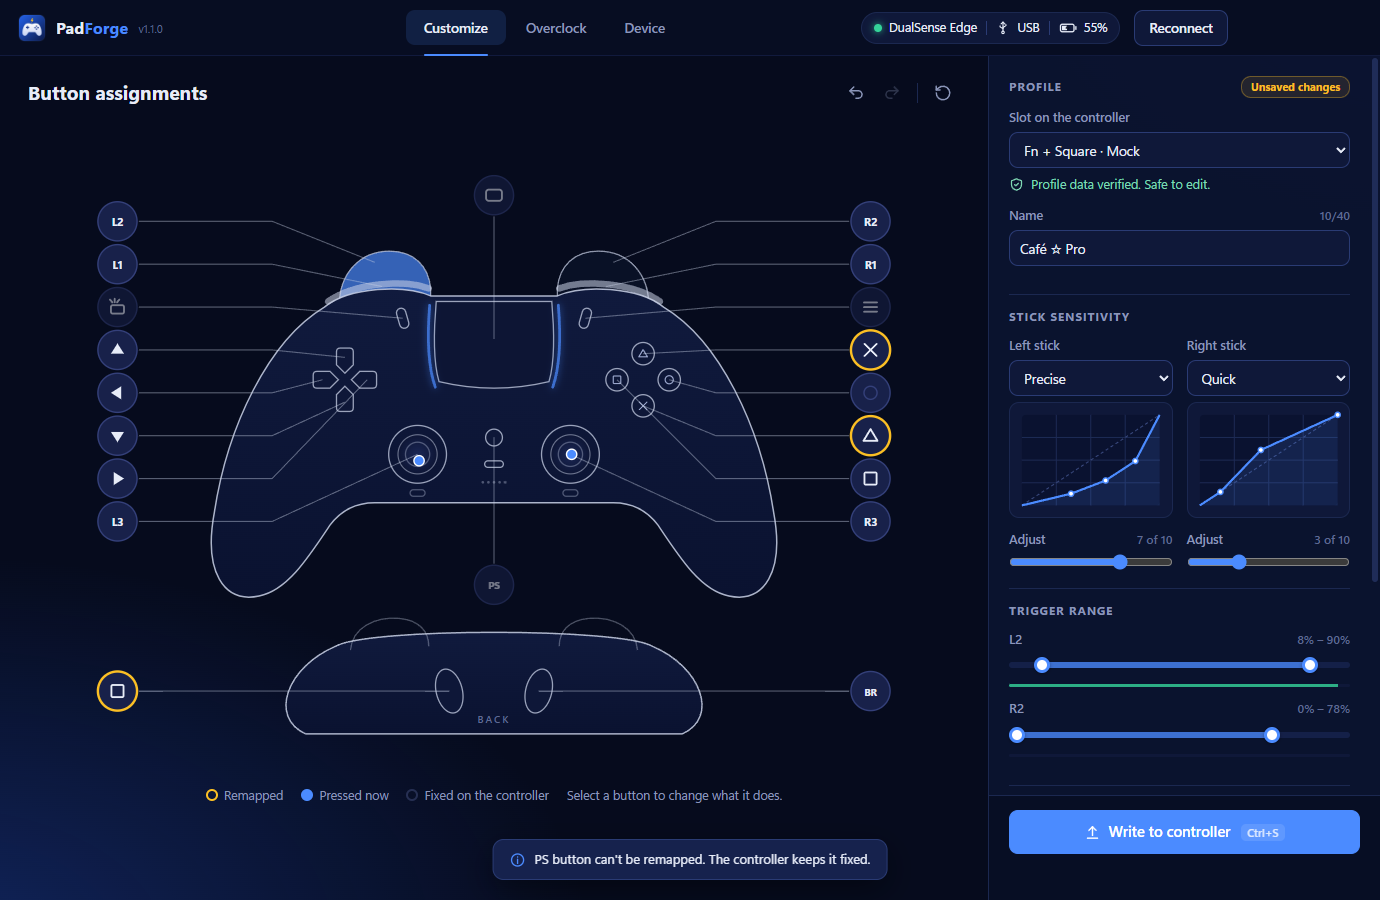
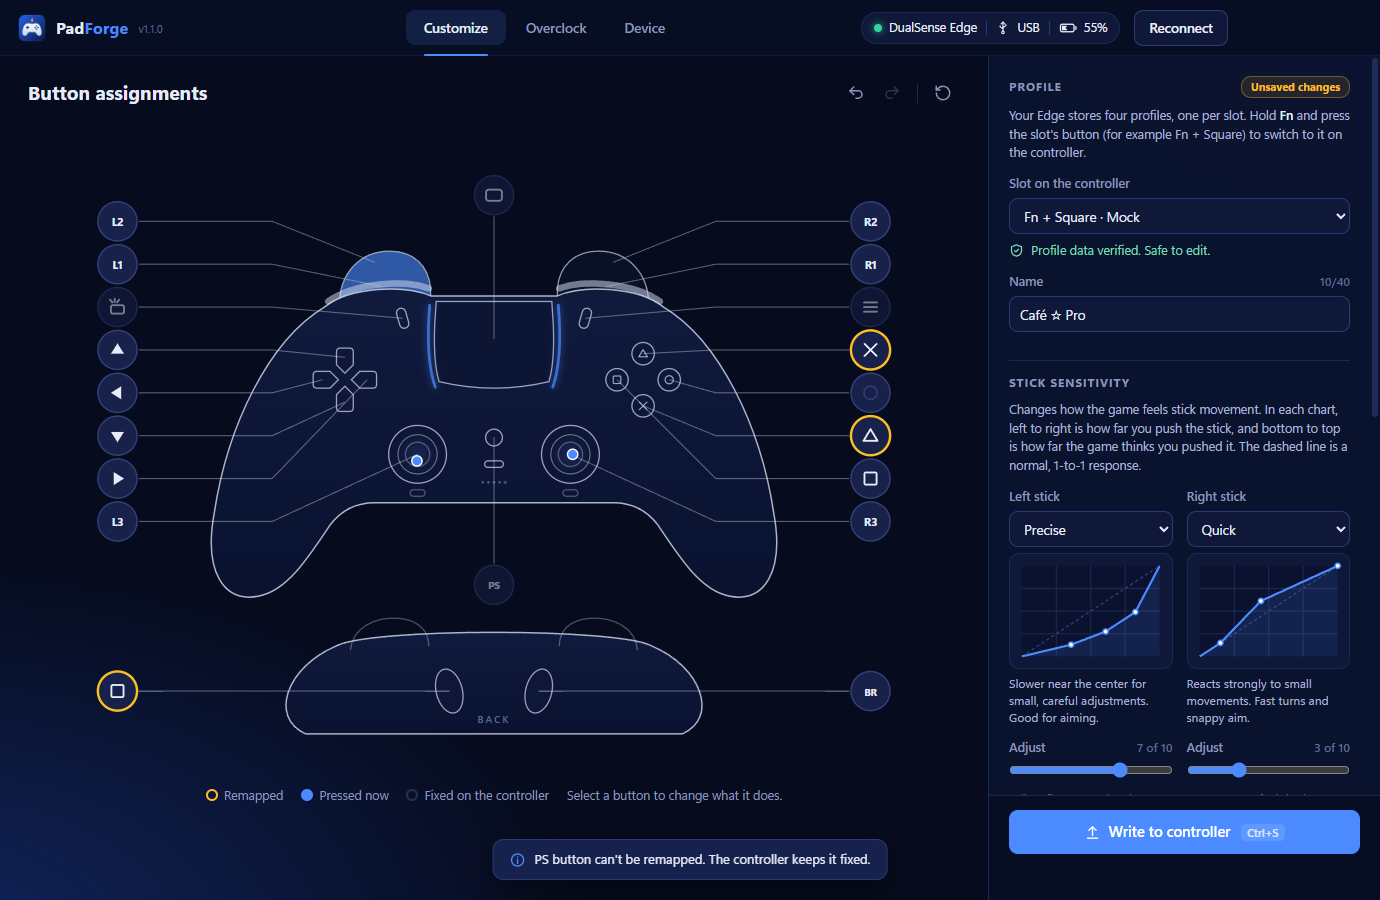
Explain every setting in the app (1.1.1)
Add plain-language help to each section: profile slots, stick curves
(with a description per preset), trigger range, presets, backups,
polling-rate numbers, benchmark and input tester.

Changed region(s): [[0.7167, 0.1244, 1.0, 0.8711], [0.9659, 0.2178, 0.9971, 0.2489], [0.9348, 0.3111, 0.9659, 0.3422]]

diff --git a/src/renderer/index.html b/src/renderer/index.html
@@ -40,6 +40,7 @@
       <div class="side-scroll">
         <section class="group">
           <div class="group-head"><h2>Profile</h2><span class="badge" id="dirty">Unsaved changes</span></div>
+          <p class="help">Your Edge stores four profiles, one per slot. Hold <b>Fn</b> and press the slot's button (for example Fn + Square) to switch to it on the controller.</p>
           <label class="field"><span class="flabel">Slot on the controller</span><select id="slot" disabled></select></label>
           <div class="slot-note" id="slotNote"></div>
           <label class="field"><span class="flabel">Name <small id="nameCount">0/40</small></span>
@@ -48,24 +49,29 @@
 
         <section class="group">
           <div class="group-head"><h2>Stick sensitivity</h2></div>
+          <p class="help">Changes how the game feels stick movement. In each chart, left to right is how far you push the stick, and bottom to top is how far the game thinks you pushed it. The dashed line is a normal, 1-to-1 response.</p>
           <div class="sticks">
             <div class="stick">
               <span class="flabel">Left stick</span>
               <select id="lPreset" aria-label="Left stick curve"></select>
               <div class="curve" id="lCurve"></div>
+              <p class="curve-desc" id="lDesc"></p>
               <label class="field compact"><span class="flabel">Adjust <small id="lStepV"></small></span><input type="range" id="lStep" min="0" max="10" aria-label="Left stick adjustment"></label>
             </div>
             <div class="stick">
               <span class="flabel">Right stick</span>
               <select id="rPreset" aria-label="Right stick curve"></select>
               <div class="curve" id="rCurve"></div>
+              <p class="curve-desc" id="rDesc"></p>
               <label class="field compact"><span class="flabel">Adjust <small id="rStepV"></small></span><input type="range" id="rStep" min="0" max="10" aria-label="Right stick adjustment"></label>
             </div>
           </div>
+          <p class="hint">Adjust fine-tunes the chosen curve (0 to 10). Default is always a straight line.</p>
         </section>
 
         <section class="group">
           <div class="group-head"><h2>Trigger range</h2></div>
+          <p class="help"><b>Left handle:</b> how far you must pull before the press counts. Raise it to ignore light touches. <b>Right handle:</b> where the trigger counts as fully pressed. Lower it for a "hair trigger" that fires sooner, without pulling all the way. The green bar shows your trigger live.</p>
           <div class="field"><span class="flabel">L2 <small id="l2V"></small></span>
             <div class="trig"><div class="track"></div><div class="fill" id="l2Fill"></div>
               <input type="range" id="l2Min" min="0" max="255" aria-label="L2 start"><input type="range" id="l2Max" min="0" max="255" aria-label="L2 end"></div>
@@ -78,6 +84,7 @@
 
         <section class="group">
           <div class="group-head"><h2>Presets on this PC</h2></div>
+          <p class="help">Save setups on your PC to reuse later or share as a file. Loading a preset only changes the editor; click Write to controller to put it on the controller.</p>
           <select id="preset" aria-label="Saved presets"></select>
           <div class="btn-row">
             <button class="btn sm" id="loadPreset" data-icon="download">Load</button>
@@ -90,6 +97,7 @@
 
         <section class="group">
           <div class="group-head"><h2>Controller data</h2></div>
+          <p class="help"><b>Reload</b> reads the profiles from the controller again. <b>Restore backup</b> puts back the profiles from before an earlier write.</p>
           <div class="btn-row">
             <button class="btn sm" id="readEdge" data-icon="refresh" disabled>Reload</button>
             <button class="btn sm" id="restoreEdge" data-icon="reset" disabled>Restore backup…</button>
@@ -110,24 +118,26 @@
     <div class="page">
       <div class="card">
         <div class="card-head"><h2>Polling rate</h2><span class="muted">Live, last 2 seconds</span></div>
+        <p class="help">The polling rate is how many times a second the controller tells your PC what you're pressing. Higher means less input delay: 250 Hz updates every 4 ms, 1000 Hz every 1 ms. Hover over any number for an explanation.</p>
         <div class="hz-row">
-          <div class="hz"><div><span id="hz">—</span><small>Hz</small></div><p>Reports received by your PC</p></div>
-          <div class="hz alt"><div><span id="ctrlHz">—</span><small>Hz</small></div><p>Fresh data from the controller</p></div>
+          <div class="hz" title="How many input reports reach your PC each second. This is the number overclocking raises."><div><span id="hz">—</span><small>Hz</small></div><p>Reports received by your PC</p></div>
+          <div class="hz alt" title="How many of those reports contain new data, measured by the controller's own clock. If this stays lower than the PC number, the extra reports only repeat old data."><div><span id="ctrlHz">—</span><small>Hz</small></div><p>Fresh data from the controller</p></div>
         </div>
         <div class="stats">
-          <div><small>Average interval</small><b id="sAvg">—</b></div>
-          <div><small>99th percentile</small><b id="sP99">—</b></div>
-          <div><small>Worst interval</small><b id="sMax">—</b></div>
-          <div><small>Jitter (σ)</small><b id="sJit">—</b></div>
-          <div><small>Repeated data</small><b id="sStale">—</b></div>
-          <div><small>Missed reports</small><b id="sDrops">—</b></div>
+          <div title="Average time between reports. Lower is better: 4 ms at 250 Hz, 1 ms at 1000 Hz."><small>Average interval</small><b id="sAvg">—</b></div>
+          <div title="99% of reports arrive faster than this. It shows how bad the occasional slow report is."><small>99th percentile</small><b id="sP99">—</b></div>
+          <div title="The single longest gap between two reports in the last 2 seconds."><small>Worst interval</small><b id="sMax">—</b></div>
+          <div title="How uneven the timing is. Lower means smoother, more consistent input."><small>Jitter (σ)</small><b id="sJit">—</b></div>
+          <div title="Share of reports that repeated the previous data instead of sending something new."><small>Repeated data</small><b id="sStale">—</b></div>
+          <div title="Reports the controller sent that never reached your PC. Should be 0."><small>Missed reports</small><b id="sDrops">—</b></div>
         </div>
-        <canvas id="chart" width="1680" height="260" aria-label="Report interval graph"></canvas>
+        <canvas id="chart" width="1680" height="260" aria-label="Report interval graph" title="Time between each report. Flat and low is best. The dashed green line is your target."></canvas>
         <p class="verdict" id="verdict">Connect a controller to measure.</p>
       </div>
 
       <div class="card">
         <div class="card-head"><h2>Benchmark</h2><button class="btn primary sm" id="benchRun"></button></div>
+        <p class="help">Measures for 10 seconds and keeps the result. Run it once before overclocking and click <b>Set as baseline</b>, then run it again afterward to see the improvement. The chart shows how often each gap between reports happened. A single tall bar on the left is ideal.</p>
         <div class="progress" id="benchProgress" hidden><i></i></div>
         <div id="benchOut"></div>
       </div>
@@ -153,10 +163,12 @@
     <div class="page grid2">
       <div class="card">
         <div class="card-head"><h2>Controller</h2><button class="btn sm" id="rumble" data-icon="vibrate" disabled>Test vibration</button></div>
+        <p class="help">Details your controller reports about itself. <b>Test vibration</b> briefly rumbles both motors, to confirm PadForge can talk to the controller.</p>
         <dl class="kv" id="devInfo"></dl>
       </div>
       <div class="card">
         <div class="card-head"><h2>Input test</h2><span class="muted">Press anything</span></div>
+        <p class="help">Each button lights up while you press it. Use this to spot a button that doesn't register, or stick drift: a stick that shows movement while you aren't touching it.</p>
         <div id="tester"></div>
       </div>
       <div class="card span2">

diff --git a/src/renderer/app.js b/src/renderer/app.js
@@ -48,6 +48,15 @@ function msg(text, kind = '') {
 /* ======================= editor ======================= */
 const diagram = createDiagram($('#pad'), { onPick: openPicker });
 
+const CURVE_HELP = [
+  'Linear: the game gets exactly how far you push. A good all-round choice.',
+  'Reacts strongly to small movements. Fast turns and snappy aim.',
+  'Slower near the center for small, careful adjustments. Good for aiming.',
+  'Smooths out small movements to reduce shaky aim and accidental drift.',
+  'Almost on/off: a small push counts as a big one. Like a D-pad.',
+  'Slow near the center, fast near the edge: precise aim plus quick turns.',
+];
+
 function renderEditor() {
   const w = S.work;
   const name = $('#pname');
@@ -62,12 +71,13 @@ function renderEditor() {
     step.value = String(s.step ?? 5);
     $(`#${p}StepV`).textContent = s.preset === 0 ? 'Linear' : s.step == null ? 'Custom' : `${s.step} of 10`;
     $(`#${p}Curve`).innerHTML = curveSvg(s.values);
+    $(`#${p}Desc`).textContent = known ? CURVE_HELP[s.preset] : 'A custom curve set by another app. PadForge keeps it unless you pick a preset.';
   });
   [['l2', 0], ['r2', 1]].forEach(([p, i]) => {
     const [a, z] = w.triggers[i];
     $(`#${p}Min`).value = String(a);
     $(`#${p}Max`).value = String(z);
-    $(`#${p}V`).textContent = `${Math.round(a / 2.55)}% – ${Math.round(z / 2.55)}%`;
+    $(`#${p}V`).textContent = a === 0 && z === 255 ? 'Full range (default)' : `Starts at ${Math.round(a / 2.55)}% · full at ${Math.round(z / 2.55)}%`;
     Object.assign($(`#${p}Fill`).style, { left: `${a / 2.55}%`, width: `${(z - a) / 2.55}%` });
   });
   diagram.render(w.map);
@@ -491,12 +501,12 @@ function renderBench() {
     ? `<span class="compare">Baseline ${Math.round(base.hz)} Hz → <b>${Math.round(r.hz)} Hz</b><span class="${r.hz >= base.hz ? 'up' : 'down'}">${r.hz >= base.hz ? '+' : ''}${Math.round((r.hz / base.hz - 1) * 100)}%</span></span>` : '';
   out.innerHTML = `
     <div class="bench-grid">
-      <div class="bstat big"><span>${Math.round(r.hz)}</span><small>Hz received</small></div>
-      <div class="bstat big"><span>${r.ctrlHz ? Math.round(r.ctrlHz) : '—'}</span><small>Hz fresh data</small></div>
-      <div class="bstat"><b>${r.p50.toFixed(2)} ms</b><small>Median interval</small></div>
-      <div class="bstat"><b>${r.p99.toFixed(2)} ms</b><small>99th percentile</small></div>
-      <div class="bstat"><b>${r.sd.toFixed(2)} ms</b><small>Jitter (σ)</small></div>
-      <div class="bstat"><b>${r.stalePct == null ? '—' : `${r.stalePct.toFixed(1)}%`}</b><small>Repeated data</small></div>
+      <div class="bstat big" title="Average reports your PC received per second during the test."><span>${Math.round(r.hz)}</span><small>Hz received</small></div>
+      <div class="bstat big" title="Reports per second that carried new data, by the controller's own clock."><span>${r.ctrlHz ? Math.round(r.ctrlHz) : '—'}</span><small>Hz fresh data</small></div>
+      <div class="bstat" title="The typical time between reports. Half were faster, half slower."><b>${r.p50.toFixed(2)} ms</b><small>Median interval</small></div>
+      <div class="bstat" title="99% of reports arrived faster than this. It shows how bad the occasional slow report is."><b>${r.p99.toFixed(2)} ms</b><small>99th percentile</small></div>
+      <div class="bstat" title="How uneven the timing was. Lower means smoother input."><b>${r.sd.toFixed(2)} ms</b><small>Jitter (σ)</small></div>
+      <div class="bstat" title="Share of reports that repeated old data instead of sending new data."><b>${r.stalePct == null ? '—' : `${r.stalePct.toFixed(1)}%`}</b><small>Repeated data</small></div>
     </div>
     ${histogramSvg(r.histogram)}
     <div class="bench-foot">${cmp}<span class="muted">${esc(r.model)} · ${r.transport === 'usb' ? 'USB' : 'Bluetooth'} · ${esc(new Date(r.when).toLocaleString())}</span>

diff --git a/src/renderer/styles.css b/src/renderer/styles.css
@@ -186,6 +186,12 @@ main { flex: 1; min-height: 0; }
 .live-bar { height: 3px; border-radius: 2px; background: var(--panel-2); overflow: hidden; margin-top: 2px; }
 .live-bar i { display: block; height: 100%; width: 0; background: var(--good); opacity: .8; }
 .btn-row { display: flex; flex-wrap: wrap; gap: 6px; margin-top: 10px; }
+.help { font-size: 12.5px; line-height: 1.5; color: #a9b3d3; margin: -2px 0 12px; }
+.help b { color: var(--text); font-weight: 600; }
+.card .help { margin: -4px 0 14px; max-width: 900px; }
+.curve-desc { font-size: 12px; line-height: 1.4; color: #a9b3d3; margin: 0; min-height: 34px; }
+[title] { cursor: help; }
+button[title], select[title], .bubble[title], [role=tab][title] { cursor: pointer; }
 .hint { font-size: 12px; color: var(--faint); margin: 10px 0 0; line-height: 1.45; }
 .actionbar { padding: 14px 20px 16px; border-top: 1px solid var(--border); background: rgba(7, 13, 34, .9); }
 .msg { display: flex; gap: 7px; align-items: flex-start; min-height: 20px; margin-top: 10px; font-size: 12.5px; line-height: 1.45; color: var(--muted); word-break: break-word; }

diff --git a/src/renderer/selftest.js b/src/renderer/selftest.js
@@ -65,6 +65,8 @@ export async function runSelfTest({ S, ctl, meter, mock, api, Edge, showView }) 
     set('#rStep', 3);
     set('#l2Min', 20); set('#l2Max', 230); set('#r2Max', 200);
     check('draws stick response curves', $('#lCurve .cline') && $('#rCurve .cline'));
+    check('explains the chosen curves', /careful adjustments/.test($('#lDesc').textContent) && /small movements/.test($('#rDesc').textContent));
+    check('explains the trigger range', /Starts at 8% · full at 90%/.test($('#l2V').textContent) && document.querySelectorAll('.help').length >= 9, $('#l2V').textContent);
     await shot('customize');
 
     // Write, confirm, verify

diff --git a/README.md b/README.md
@@ -18,8 +18,8 @@
 ## Download
 
 1. Open the **[latest release](https://github.com/process631/padforge/releases/latest)**.
-2. Download **`PadForge-1.1.0-Portable.exe`**. It runs without installing. The **`PadForge-Setup-1.1.0.exe`** download installs PadForge with Start menu and desktop shortcuts instead.
-3. Double-click it. Windows SmartScreen will say *"Windows protected your PC"* because the app isn't code-signed; click **More info → Run anyway**.
+2. Download **`PadForge-1.1.1-Portable.exe`**. It runs without installing. The **`PadForge-Setup-1.1.1.exe`** download installs PadForge with Start menu and desktop shortcuts instead.
+3. Double-click it. Windows SmartScreen will say *"Windows protected your PC"* because the app isn't code-signed; click **More info â†’ Run anyway**.
 4. Plug in your controller with a USB cable. PadForge connects automatically.
 
 Requires Windows 10 or 11 (64-bit).
@@ -51,13 +51,13 @@ Model, connection, battery, firmware version, a vibration test, and a live teste
 
 <p align="center"><img src="docs/screenshots/device.png" alt="Device information and input tester" width="900"></p>
 
-**Shortcuts:** `Ctrl+Z` / `Ctrl+Y` undo and redo · `Ctrl+S` write to controller · `Ctrl+1/2/3` switch tabs
+**Shortcuts:** `Ctrl+Z` / `Ctrl+Y` undo and redo Â· `Ctrl+S` write to controller Â· `Ctrl+1/2/3` switch tabs
 
 ## Good to know
 - Options, Touch pad, Create and PS can't be remapped. The controller keeps them fixed.
 - An empty profile slot must be created once in Sony's PlayStation Accessories app before PadForge can edit it.
 - Editing profiles needs a USB cable. Overclocking only applies to USB.
-- The Edge profile format is reverse-engineered and unofficial. If a write ever misbehaves, use **Restore backup** and open an issue with the file from **Device → Export diagnostics**. It contains the raw profile data and recent log, and no personal information.
+- The Edge profile format is reverse-engineered and unofficial. If a write ever misbehaves, use **Restore backup** and open an issue with the file from **Device â†’ Export diagnostics**. It contains the raw profile data and recent log, and no personal information.
 
 ## Build from source
 
